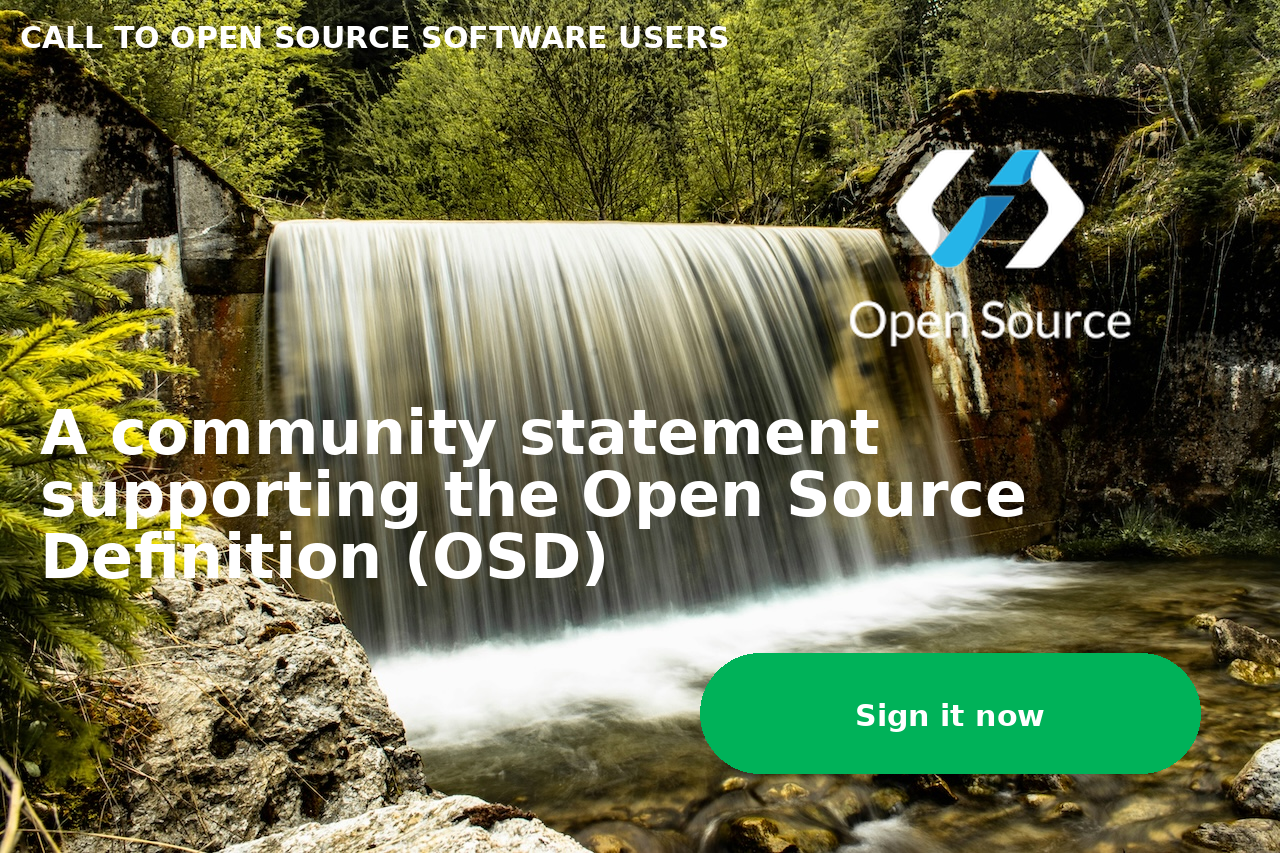
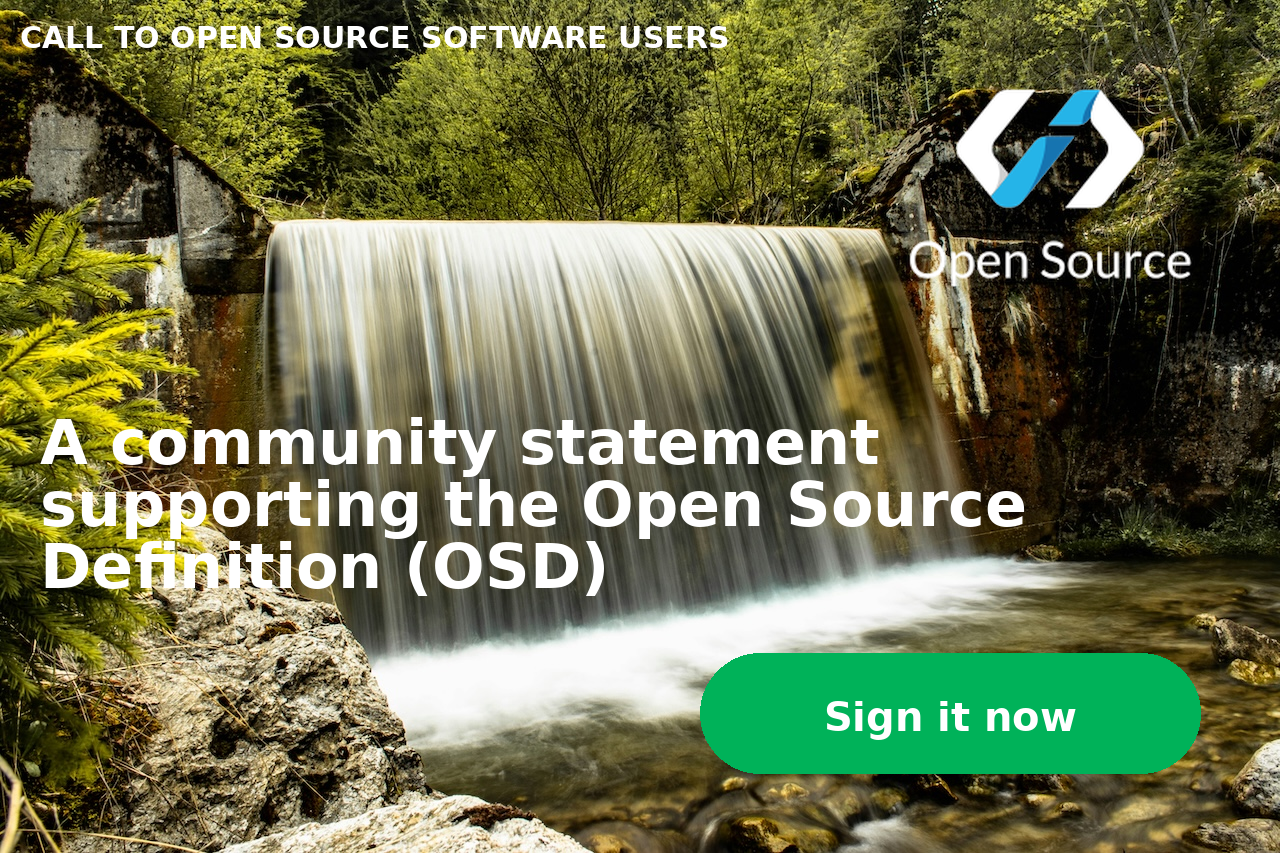
image

Changed region(s): [[0.0312, 0.4572, 0.8125, 0.7011], [0.6562, 0.0914, 0.9375, 0.3962], [0.625, 0.823, 0.8438, 0.8839]]

diff --git a/_scripts/image.py b/_scripts/image.py
@@ -85,13 +85,13 @@ def resize_logo(image, scale_factor, max_width, max_height):
 scale_factor = 2  # Scale the logo to approximately 2x its original size
 logo_size = (500, 500)  # Maximum size constraints
 logo_image = resize_logo(logo_image, scale_factor, *logo_size)
-logo_position = (background_image.width - logo_image.width - 40, 40)  # Closer to the top right corner
+logo_position = (background_image.width - logo_image.width + 20, -20)  # Closer to the top right corner
 
-# Load the main font
+# Load the fonts
 main_font = ImageFont.truetype(str(FONT_PATH), 62)  # Adjust the size as needed
+button_font = ImageFont.truetype(str(FONT_PATH), 40)  # Adjust the size as needed
+cta_font = ImageFont.truetype(str(FONT_PATH), 30)  # Adjust the size as needed
 
-# Load the button font
-button_font = ImageFont.truetype(str(FONT_PATH), 30)  # Adjust the size as needed
 
 # Function to create a pill-shaped button
 def create_pill_button(draw, position, size, color, text, font, text_color):
@@ -125,14 +125,14 @@ def create_image(text_main, text_call_to_action, button_text, language_code):
     draw.text(
         (20, 20),  # Top left with padding
         text_call_to_action.upper(),
-        font=button_font,  # Use smaller font
+        font=cta_font,  # Use smaller font
         fill=TEXT_COLOR
     )
 
     # Draw the main title text, wrapping to fit and increase size
     text_main_wrapped = "\n".join(textwrap.wrap(text_main, width=30))  # Adjust width for wrapping
     draw.text(
-        (40, logo_image.height - 20),  # Position below the logo with more padding
+        (40, logo_image.height - 10),  # Position below the logo with more padding
         text_main_wrapped,
         font=main_font,  # Consider using a larger font size
         fill=TEXT_COLOR
